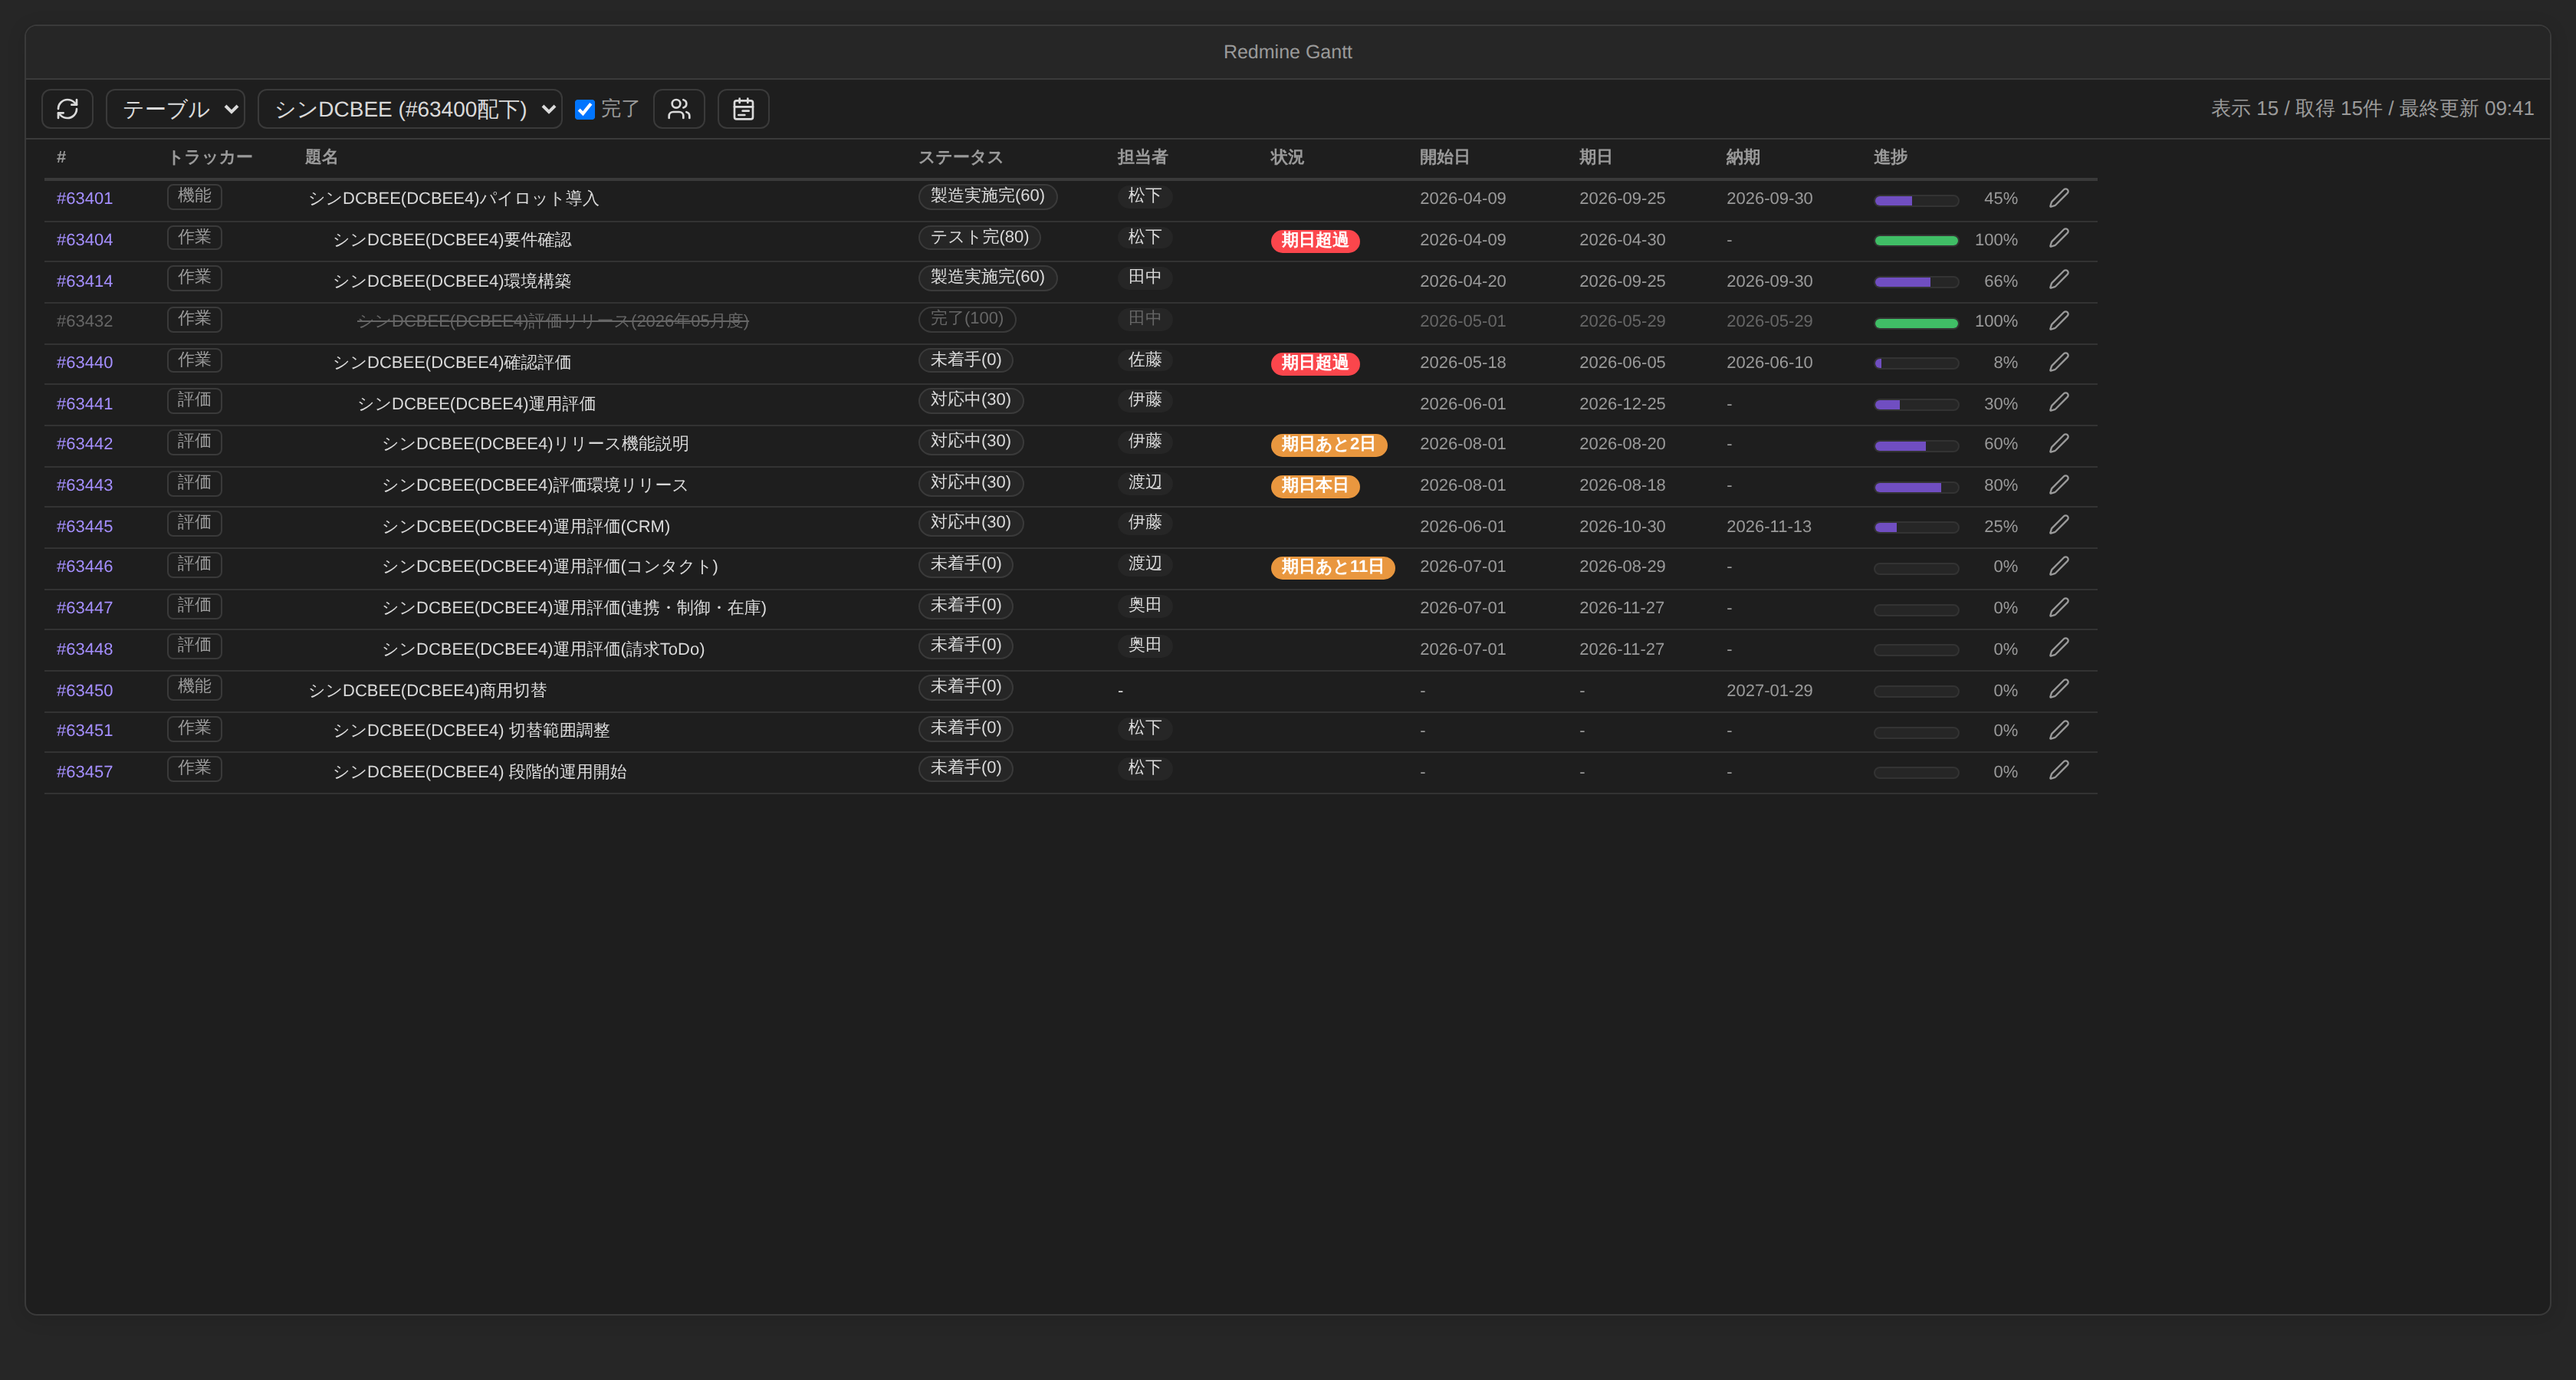
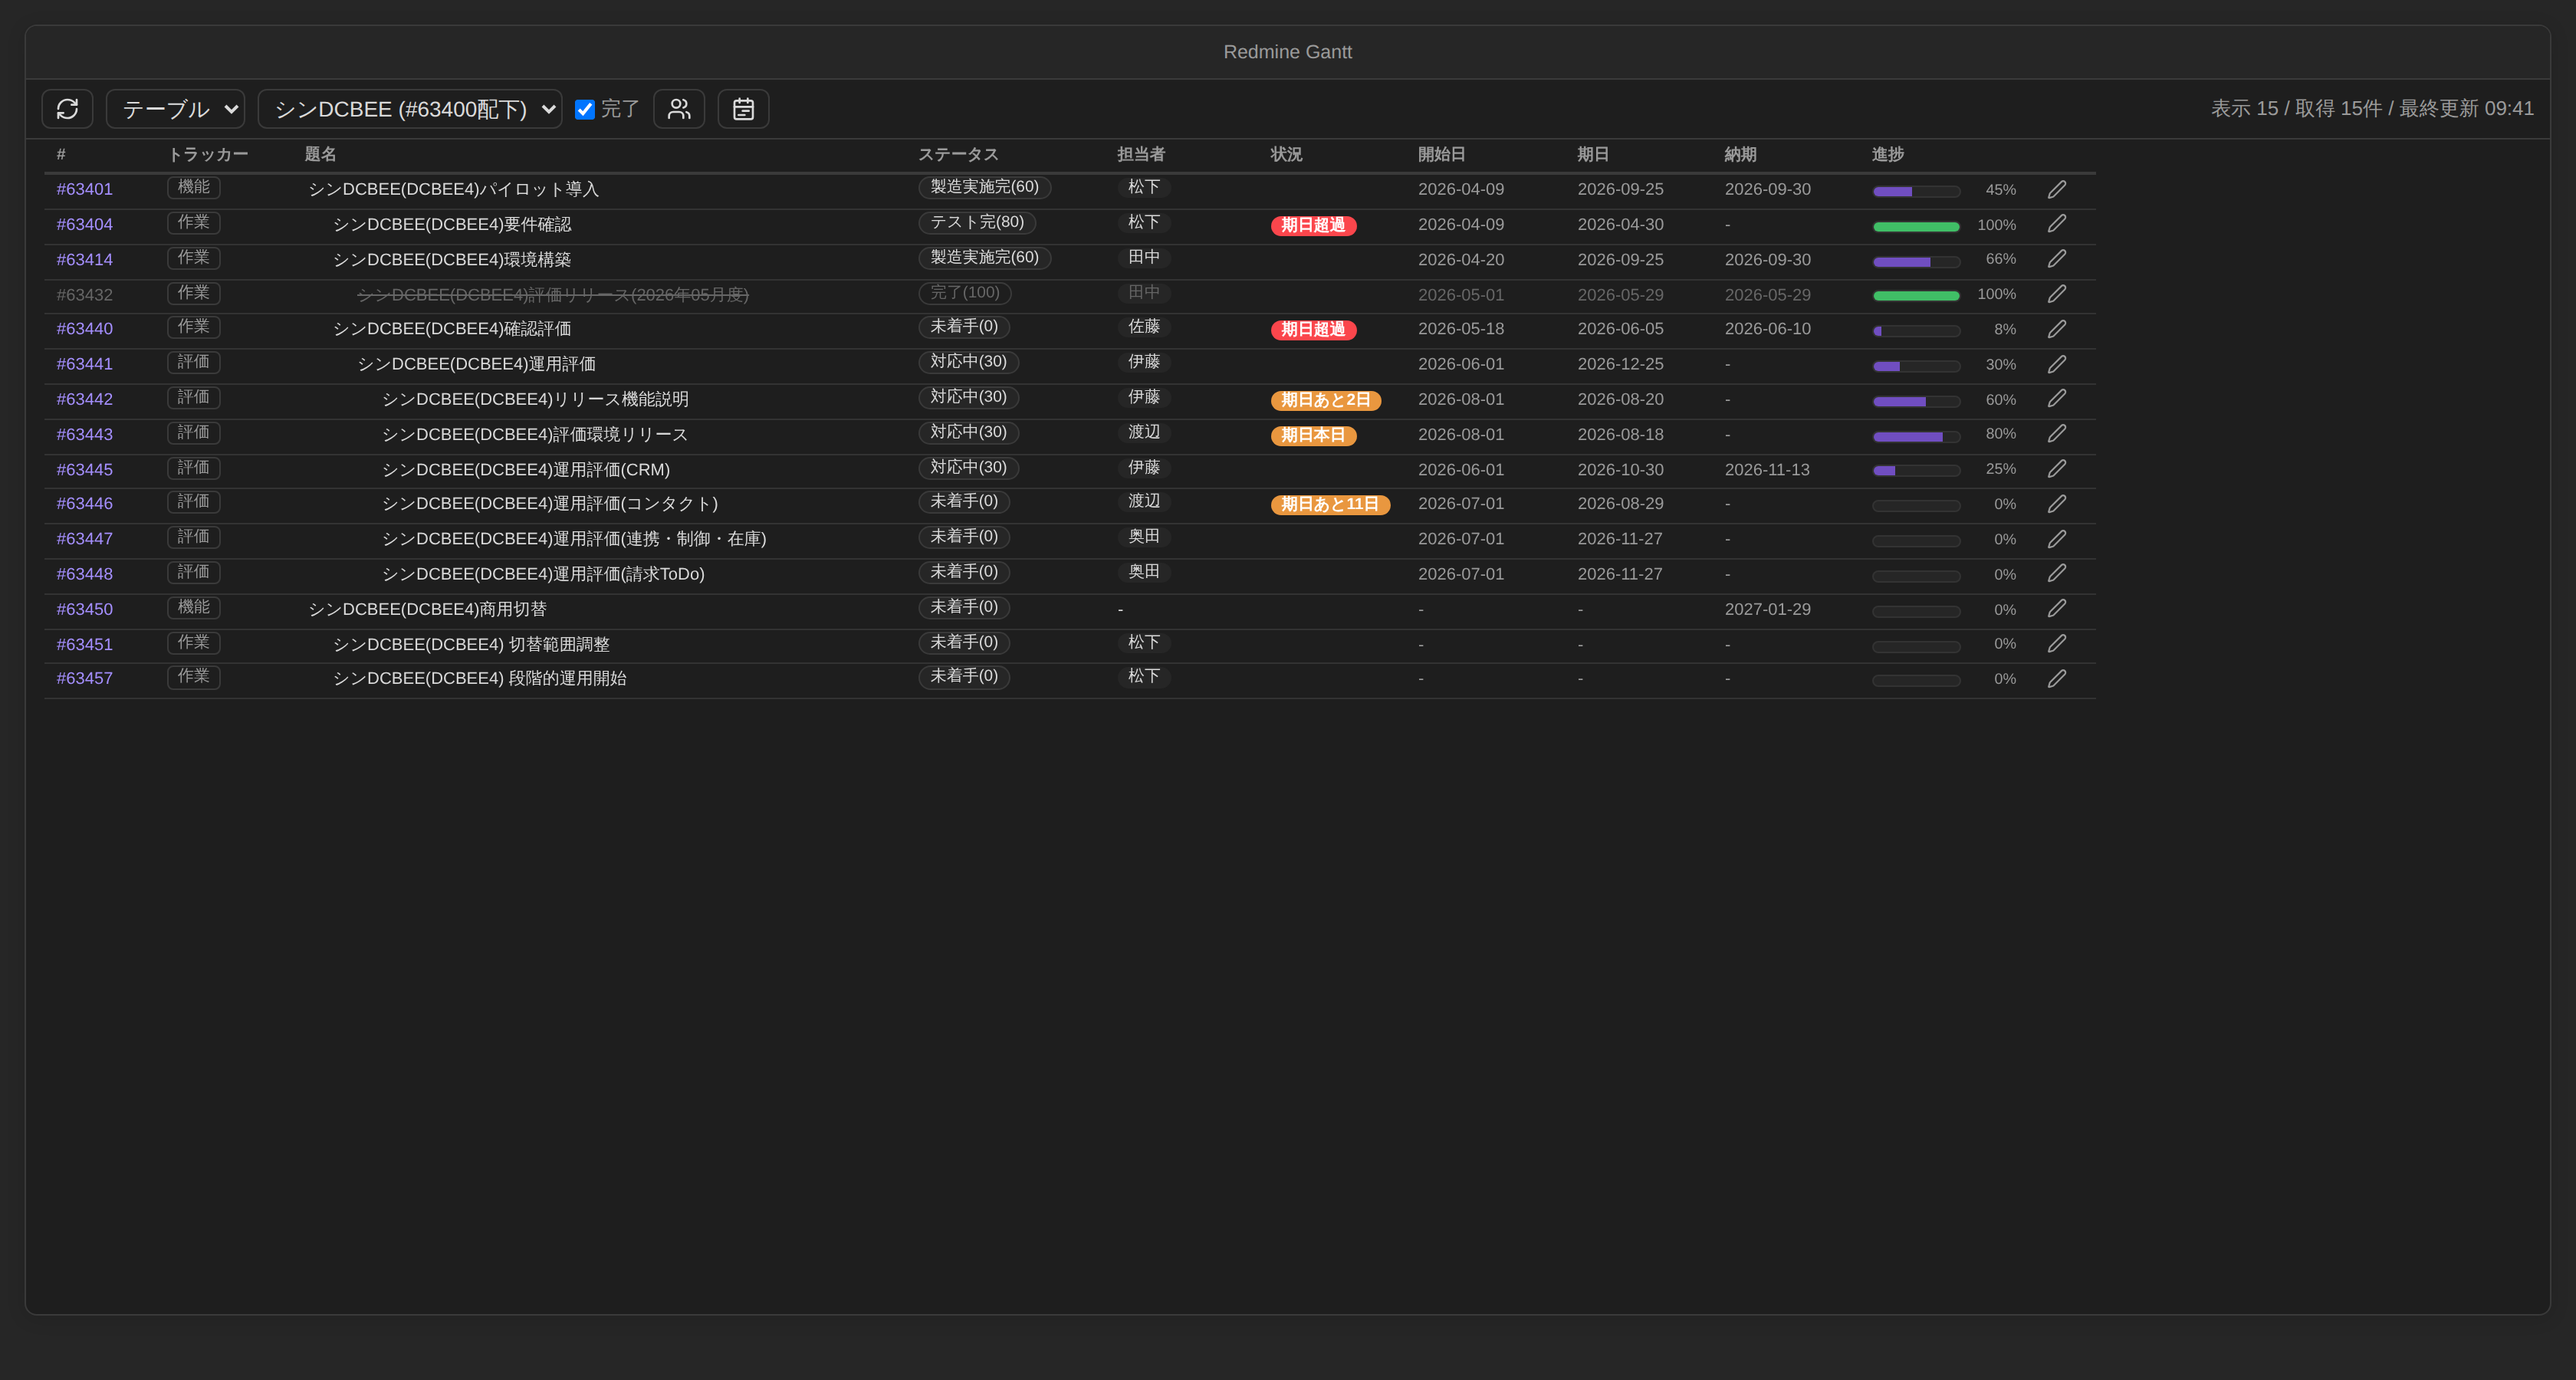
テーブル行をさらに圧縮し、文字サイズ設定を追加
- セルの上下パディングを2px→1px、行間を1.25に圧縮
- 設定画面に「テーブルの文字サイズ」スライダーを追加(8〜16px、既定11px、
  リセットボタン付き)。バッジ・チップ・状況表示・進捗テキスト・編集アイコンを
  em単位に変更し、文字サイズに連動して行の高さごと縮小/拡大
- 設定変更は開いているガントビューに即時反映(refreshGanttViews)
- 画面イメージ・README/ARCHITECTUREを更新、main.jsを再ビルド

Claude-Session: https://claude.ai/code/session_0118WAWEAhUn2qJokaWLCuZh

Changed region(s): [[0.0, 0.0933, 0.8125, 0.56], [0.7188, 0.28, 0.7812, 0.3733]]

diff --git a/main.js b/main.js
@@ -44,7 +44,8 @@ var DEFAULT_SETTINGS = {
   activeFilter: "",
   viewMode: "gantt",
   planItems: [],
-  assigneeColors: []
+  assigneeColors: [],
+  tableFontSize: 11
 };
 var RedmineGanttSettingTab = class extends import_obsidian.PluginSettingTab {
   constructor(app, plugin) {
@@ -73,6 +74,20 @@ var RedmineGanttSettingTab = class extends import_obsidian.PluginSettingTab {
       (dropdown) => dropdown.addOption("day", "\u65E5").addOption("week", "\u9031").addOption("month", "\u6708").setValue(this.plugin.settings.defaultScale).onChange(async (value) => {
         this.plugin.settings.defaultScale = value;
         await this.plugin.saveSettings();
+      })
+    );
+    new import_obsidian.Setting(containerEl).setName("\u30C6\u30FC\u30D6\u30EB\u306E\u6587\u5B57\u30B5\u30A4\u30BA").setDesc("px\u5358\u4F4D\u3002\u884C\u306E\u9AD8\u3055\u30FB\u30D0\u30C3\u30B8\u985E\u3082\u6587\u5B57\u30B5\u30A4\u30BA\u306B\u9023\u52D5\u3057\u3066\u7E2E\u5C0F/\u62E1\u5927\u3057\u307E\u3059(\u65E2\u5B9A: 11)\u3002").addSlider(
+      (slider) => slider.setLimits(8, 16, 1).setValue(this.plugin.settings.tableFontSize).setDynamicTooltip().onChange(async (value) => {
+        this.plugin.settings.tableFontSize = value;
+        await this.plugin.saveSettings();
+        this.plugin.refreshGanttViews();
+      })
+    ).addExtraButton(
+      (button) => button.setIcon("rotate-ccw").setTooltip("\u65E2\u5B9A\u5024(11px)\u306B\u623B\u3059").onClick(async () => {
+        this.plugin.settings.tableFontSize = 11;
+        await this.plugin.saveSettings();
+        this.plugin.refreshGanttViews();
+        this.display();
       })
     );
     new import_obsidian.Setting(containerEl).setName("\u8868\u793A\u30D5\u30A3\u30EB\u30BF").setHeading().setDesc(
@@ -1130,6 +1145,7 @@ function renderTable(container, model, opts) {
   }
   const wrap = container.createDiv({ cls: "rg-table-wrap" });
   const table = wrap.createEl("table", { cls: "rg-table" });
+  table.style.fontSize = `${opts.fontSize}px`;
   const colgroup = table.createEl("colgroup");
   const cols = COLUMNS.map((_, i) => {
     const col = colgroup.createEl("col");
@@ -1659,6 +1675,10 @@ var GanttView = class extends import_obsidian6.ItemView {
       return a.start.getTime() - b.start.getTime();
     });
   }
+  /** 設定変更などによる外部からの再描画 */
+  rerender() {
+    this.renderView();
+  }
   /** 表示側フィルタを適用して再描画する(再取得はしない) */
   renderView() {
     if (!this.chartEl || !this.rawIssues)
@@ -1678,6 +1698,7 @@ var GanttView = class extends import_obsidian6.ItemView {
       renderTable(this.chartEl, model, {
         ...opts,
         widths: this.tableWidths,
+        fontSize: this.plugin.settings.tableFontSize,
         onEdit: (issueId) => this.openEditModal(issueId)
       });
     } else {
@@ -1747,5 +1768,14 @@ var RedmineGanttPlugin = class extends import_obsidian7.Plugin {
   }
   async saveSettings() {
     await this.saveData(this.settings);
+  }
+  /** 開いているガントビューを再描画する(設定変更の即時反映用) */
+  refreshGanttViews() {
+    for (const leaf of this.app.workspace.getLeavesOfType(VIEW_TYPE_REDMINE_GANTT)) {
+      const view = leaf.view;
+      if (view instanceof GanttView) {
+        view.rerender();
+      }
+    }
   }
 };

diff --git a/src/settings.ts b/src/settings.ts
@@ -61,6 +61,8 @@ export interface RedmineGanttSettings {
 	viewMode: ViewMode;
 	planItems: PlanItem[];
 	assigneeColors: AssigneeColor[];
+	/** テーブルの文字サイズ(px)。行の高さも連動する */
+	tableFontSize: number;
 }
 
 export const DEFAULT_SETTINGS: RedmineGanttSettings = {
@@ -72,6 +74,7 @@ export const DEFAULT_SETTINGS: RedmineGanttSettings = {
 	viewMode: "gantt",
 	planItems: [],
 	assigneeColors: [],
+	tableFontSize: 11,
 };
 
 export class RedmineGanttSettingTab extends PluginSettingTab {
@@ -128,6 +131,32 @@ export class RedmineGanttSettingTab extends PluginSettingTab {
 					.onChange(async (value) => {
 						this.plugin.settings.defaultScale = value as GanttScale;
 						await this.plugin.saveSettings();
+					})
+			);
+
+		new Setting(containerEl)
+			.setName("テーブルの文字サイズ")
+			.setDesc("px単位。行の高さ・バッジ類も文字サイズに連動して縮小/拡大します(既定: 11)。")
+			.addSlider((slider) =>
+				slider
+					.setLimits(8, 16, 1)
+					.setValue(this.plugin.settings.tableFontSize)
+					.setDynamicTooltip()
+					.onChange(async (value) => {
+						this.plugin.settings.tableFontSize = value;
+						await this.plugin.saveSettings();
+						this.plugin.refreshGanttViews();
+					})
+			)
+			.addExtraButton((button) =>
+				button
+					.setIcon("rotate-ccw")
+					.setTooltip("既定値(11px)に戻す")
+					.onClick(async () => {
+						this.plugin.settings.tableFontSize = 11;
+						await this.plugin.saveSettings();
+						this.plugin.refreshGanttViews();
+						this.display();
 					})
 			);
 

diff --git a/styles.css b/styles.css
@@ -415,8 +415,9 @@
 	border-collapse: separate;
 	border-spacing: 0;
 	table-layout: fixed;
+	/* 文字サイズは設定値をインラインで適用。行内の要素はemで連動する */
 	font-size: var(--font-ui-smaller);
-	line-height: 1.35;
+	line-height: 1.25;
 }
 
 .rg-table th,
@@ -435,13 +436,13 @@
 	background: var(--background-primary);
 	color: var(--text-muted);
 	font-weight: 600;
-	font-size: var(--font-ui-smaller);
-	padding: 5px 8px;
+	font-size: 0.95em;
+	padding: 4px 8px;
 	border-bottom: 2px solid var(--background-modifier-border);
 }
 
 .rg-table td {
-	padding: 2px 8px;
+	padding: 1px 8px;
 	border-bottom: 1px solid var(--background-modifier-border-hover);
 }
 
@@ -617,6 +618,24 @@ body.rg-resizing {
 	background: var(--color-orange);
 	color: #ffffff;
 	font-weight: 600;
+}
+
+/* テーブル内の要素は文字サイズ設定に連動させる */
+.rg-table .rg-badge,
+.rg-table .rg-tracker,
+.rg-table .rg-assignee-chip,
+.rg-table .rg-due {
+	font-size: 0.95em;
+}
+
+.rg-table .rg-progress-text {
+	font-size: 0.9em;
+	width: 3em;
+}
+
+.rg-table .rg-edit-btn svg {
+	width: 1.2em;
+	height: 1.2em;
 }
 
 /* 進捗バー */

diff --git a/src/gantt/table.ts b/src/gantt/table.ts
@@ -27,6 +27,8 @@ export function defaultTableWidths(): number[] {
 export interface TableOptions extends RenderOptions {
 	/** 列幅(px)。参照を保持したまま書き換えることで呼び出し側に永続される */
 	widths: number[];
+	/** テーブルの文字サイズ(px)。行の高さも連動する */
+	fontSize: number;
 	/** 編集ボタン押下時に呼ばれる。未指定なら編集列を出さない */
 	onEdit?: (issueId: number) => void;
 }
@@ -43,6 +45,7 @@ export function renderTable(container: HTMLElement, model: GanttModel, opts: Tab
 
 	const wrap = container.createDiv({ cls: "rg-table-wrap" });
 	const table = wrap.createEl("table", { cls: "rg-table" });
+	table.style.fontSize = `${opts.fontSize}px`;
 
 	const colgroup = table.createEl("colgroup");
 	const cols: HTMLTableColElement[] = COLUMNS.map((_, i) => {

diff --git a/src/gantt/GanttView.ts b/src/gantt/GanttView.ts
@@ -447,6 +447,11 @@ export class GanttView extends ItemView {
 		});
 	}
 
+	/** 設定変更などによる外部からの再描画 */
+	rerender(): void {
+		this.renderView();
+	}
+
 	/** 表示側フィルタを適用して再描画する(再取得はしない) */
 	private renderView(): void {
 		if (!this.chartEl || !this.rawIssues) return;
@@ -465,6 +470,7 @@ export class GanttView extends ItemView {
 			renderTable(this.chartEl, model, {
 				...opts,
 				widths: this.tableWidths,
+				fontSize: this.plugin.settings.tableFontSize,
 				onEdit: (issueId: number) => this.openEditModal(issueId),
 			});
 		} else {

diff --git a/src/main.ts b/src/main.ts
@@ -57,4 +57,14 @@ export default class RedmineGanttPlugin extends Plugin {
 	async saveSettings(): Promise<void> {
 		await this.saveData(this.settings);
 	}
+
+	/** 開いているガントビューを再描画する(設定変更の即時反映用) */
+	refreshGanttViews(): void {
+		for (const leaf of this.app.workspace.getLeavesOfType(VIEW_TYPE_REDMINE_GANTT)) {
+			const view = leaf.view;
+			if (view instanceof GanttView) {
+				view.rerender();
+			}
+		}
+	}
 }

diff --git a/README.md b/README.md
@@ -27,7 +27,7 @@
   - テーブルは # / トラッカー / 題名 / ステータス / 担当者 / **状況** / 開始日 / 期日 / **納期** / 進捗 / 編集 の列構成。列幅はヘッダー境界のドラッグで調整可能
   - 納期列は Redmine のカスタムフィールド「納期」の値を表示
   - **状況列**: 現在日と期日(なければ納期)を比較し、**2週間以内**ならオレンジのバッジで「期日あとXX日」(当日は「期日本日」)、超過は赤バッジで「期日超過」を表示。2週間より先・完了チケットは何も表示しない
-  - コンパクトな行高で一覧性を重視
+  - コンパクトな行高で一覧性を重視。**文字サイズは設定で8〜16pxに調整可能**(行の高さ・バッジ類も連動、既定11px)
 - **完了チケットの表示切替**: ツールバーの「完了」チェックで切替(既定: 非表示)。再取得なしで即時反映
 - **担当者絞り込みモード**: ツールバーの人物アイコンから担当者を複数選択すると、その担当者のチケットだけを表示し、担当者ごとに色分け(ガントのバー・テーブルのチップ)
 - **担当者の固定色**: 設定で「担当者名+色」を登録すると、表示フィルタや絞り込みの選択にかかわらず、その担当者は常にその色で表示される(絞り込みモードの自動配色より優先)
@@ -74,6 +74,7 @@
 | Redmine URL | 例: `https://redmine.example.local` |
 | APIキー | 個人設定ページの API アクセスキー |
 | 既定のスケール | 日 / 週 / 月 |
+| テーブルの文字サイズ | 8〜16pxのスライダー(既定11)。行の高さも連動し、変更は開いているビューに即時反映 |
 | 表示フィルタ | 表示するチケットの取得条件。**いずれか1つ以上の登録が必須**(下記) |
 | 担当者の色分け | 常に色分けしたい担当者を「表示名+色」で登録(カラーピッカー付き)。名前はRedmineの表示名と完全一致 |
 

diff --git a/docs/ARCHITECTURE.md b/docs/ARCHITECTURE.md
@@ -127,6 +127,7 @@ obsidian-redmine-tool/
 | **2.9(実装済み)** | テーブルのコンパクト化(フォント縮小・行高圧縮)と「状況」列(開始日の左): 期日/納期が2週間以内ならオレンジバッジ「あとXX日」、超過は赤バッジ「期日超過」。2週間より先は非表示 |
 | **2.10(実装済み)** | 担当者の固定色設定: 設定画面で担当者名+色を登録し、フィルタ・絞り込みの選択にかかわらず常にその色で表示(絞り込みモードの自動配色より優先) |
 | **2.11(実装済み)** | ツリー表示の維持: ツリー構築を全チケット(日付なし含む)に拡大し「日付未設定」別枠を廃止。絞り込み(完了/担当者/クエリ条件)で非表示になった親はグレーのコンテキスト行として補完し、Redmineと同じ階層を再現 |
+| **2.12(実装済み)** | テーブル行高のさらなる圧縮と文字サイズ設定(8〜16pxスライダー、行高・バッジ類がem連動、開いているビューへ即時反映) |
 | **4b** | ガント上での直接編集: バーのドラッグ/リサイズによる期日変更。楽観ロック(`updated_on` 比較)と更新確認ダイアログ |
 
 ## 8. 技術スタック
